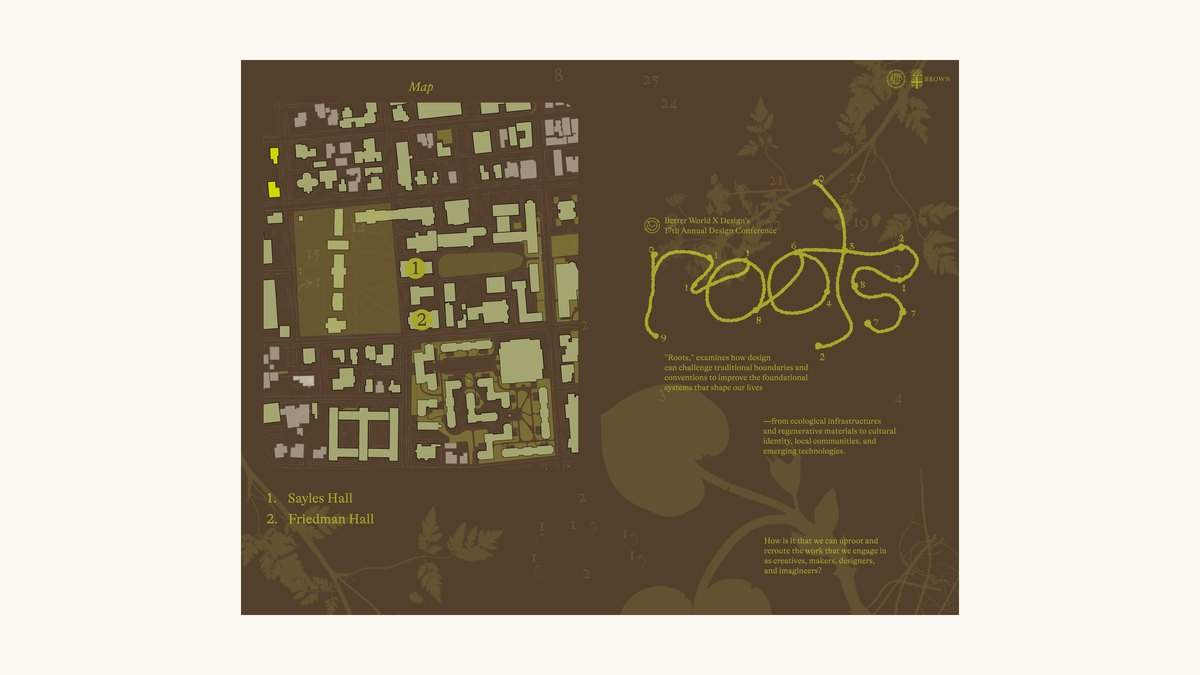
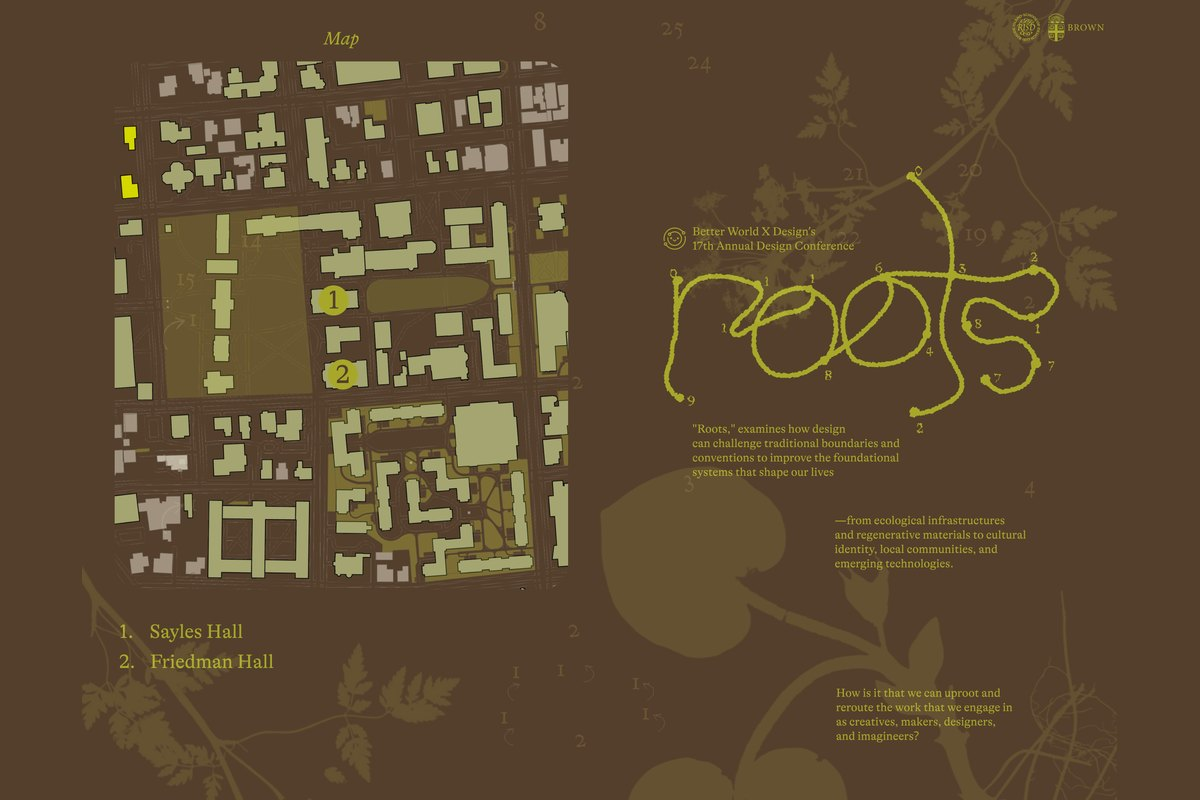
Roots: show frames without backgrounds; MÆZE tag to identity design

diff --git a/bwxd-roots.html b/bwxd-roots.html
@@ -10,7 +10,7 @@
 <link rel="icon" type="image/png" href="img/favicon.png?v=4">
 <link rel="apple-touch-icon" href="img/apple-touch-icon.png?v=4">
 <script type="speculationrules">{"prerender":[{"where":{"href_matches":"/*"},"eagerness":"moderate"}]}</script>
-<link rel="stylesheet" href="css/site.css?v=31">
+<link rel="stylesheet" href="css/site.css?v=32">
 </head>
 <body>
 <nav class="nav">
@@ -24,20 +24,33 @@
   <div class="wrap project-in">
     <a class="label inline back" href="./">← Back</a>
     <div class="duo">
-      <img class="shot" src="img/bwxd-cover.jpg" alt="Roots conference program, front" fetchpriority="high" width="2400" height="1350">
-      <img class="shot" src="img/bwxd-01.jpg" alt="Roots conference program, back" fetchpriority="high" width="2400" height="1350">
+      <img class="shot" src="img/bwxd-front.jpg" alt="Roots conference program, front" fetchpriority="high" width="2376" height="1836">
+      <img class="shot" src="img/bwxd-back.jpg" alt="Roots conference program, back" fetchpriority="high" width="2376" height="1836">
     </div>
     <div class="details details-pair">
       <div class="title-col"><h1 class="heading">Roots</h1><div class="tags"><span class="tag">brand identity</span><span class="tag">print</span></div></div>
       <div class="desc-col"><p class="body desc-fill">Identity for Roots, Better World by Design’s 17th annual design conference, which asks how design can uproot and reroute the systems that shape our lives. Brand guidelines, theme launch poster, conference program with a campus map and schedule, and recruitment posts for the 2027–28 committee. Type in Goudy Bookletter 1911 and GT&nbsp;Alpina.</p></div>
     </div>
-    <div class="gallery two-up">
-    <img class="shot" src="img/bwxd-02.jpg" alt="Roots brand guidelines" loading="lazy" width="2400" height="1350">
-    <img class="shot" src="img/bwxd-03.jpg" alt="Roots theme launch poster" loading="lazy" width="2400" height="1350">
-    <img class="shot" src="img/bwxd-04.jpg" alt="Recruitment posts: operations and graphics" loading="lazy" width="2400" height="1350">
-    <img class="shot" src="img/bwxd-05.jpg" alt="Recruitment posts: content and community engagement" loading="lazy" width="2400" height="1350">
-    <img class="shot" src="img/bwxd-06.jpg" alt="Recruitment posts: public relations and web" loading="lazy" width="2400" height="1350">
-    <img class="shot" src="img/bwxd-07.jpg" alt="Recruitment posts and posters" loading="lazy" width="2400" height="1350">
+    <div class="gallery">
+    <div class="fit-row">
+      <img class="shot bordered" src="img/bwxd-brand.jpg" alt="Roots brand guidelines" loading="lazy" width="1652" height="2667" style="--r:0.6194">
+      <img class="shot" src="img/bwxd-theme.jpg" alt="Roots theme launch poster" loading="lazy" width="1584" height="2448" style="--r:0.6471">
+    </div>
+    <div class="fit-row">
+      <img class="shot bordered" src="img/bwxd-post-1.jpg" alt="Recruitment post: operations" loading="lazy" width="1400" height="1750" style="--r:0.8000">
+      <img class="shot bordered" src="img/bwxd-post-2.jpg" alt="Recruitment post: graphics" loading="lazy" width="1400" height="1750" style="--r:0.8000">
+      <img class="shot bordered" src="img/bwxd-post-3.jpg" alt="Recruitment post: content" loading="lazy" width="1400" height="1750" style="--r:0.8000">
+    </div>
+    <div class="fit-row">
+      <img class="shot bordered" src="img/bwxd-post-4.jpg" alt="Recruitment post: community engagement" loading="lazy" width="1400" height="1750" style="--r:0.8000">
+      <img class="shot bordered" src="img/bwxd-post-5.jpg" alt="Recruitment post: public relations" loading="lazy" width="1400" height="1750" style="--r:0.8000">
+      <img class="shot bordered" src="img/bwxd-post-6.jpg" alt="Recruitment post: web" loading="lazy" width="1400" height="1750" style="--r:0.8000">
+    </div>
+    <div class="fit-row">
+      <img class="shot bordered" src="img/bwxd-post-7.jpg" alt="Recruitment post: we are hiring" loading="lazy" width="1400" height="1750" style="--r:0.8000">
+      <img class="shot bordered" src="img/bwxd-tabloid-1.jpg" alt="Recruitment poster" loading="lazy" width="1300" height="2009" style="--r:0.6471">
+      <img class="shot bordered" src="img/bwxd-tabloid-5.jpg" alt="Recruitment poster" loading="lazy" width="1300" height="2009" style="--r:0.6471">
+    </div>
     </div>
     <div class="pager"><a class="body plain" href="maze.html">← MÆZE</a><a class="body plain" href="affix.html">AFFIX →</a></div>
   </div>

diff --git a/index.html b/index.html
@@ -10,7 +10,7 @@
 <link rel="icon" type="image/png" href="img/favicon.png?v=4">
 <link rel="apple-touch-icon" href="img/apple-touch-icon.png?v=4">
 <script type="speculationrules">{"prerender":[{"where":{"href_matches":"/*"},"eagerness":"moderate"}]}</script>
-<link rel="stylesheet" href="css/site.css?v=31">
+<link rel="stylesheet" href="css/site.css?v=32">
 </head>
 <body>
 <nav class="nav">
@@ -30,10 +30,10 @@
   <div class="wrap grid">
     <a class="card" href="maze.html">
       <div class="thumb"><img src="img/maze-card.jpg" alt="MÆZE" fetchpriority="high" width="1200" height="675"></div>
-      <div class="caption"><div class="cap-text"><p class="body cap-title">MÆZE</p><p class="cap-sub">A wayfinding prototype for the Providence Athenæum</p></div><div class="tags"><span class="tag">UX/UI</span><span class="tag">wayfinding</span></div></div>
+      <div class="caption"><div class="cap-text"><p class="body cap-title">MÆZE</p><p class="cap-sub">A wayfinding prototype for the Providence Athenæum</p></div><div class="tags"><span class="tag">UX/UI</span><span class="tag">identity design</span></div></div>
     </a>
     <a class="card" href="bwxd-roots.html">
-      <div class="thumb"><img src="img/bwxd-card.jpg" alt="Roots" fetchpriority="high" width="1200" height="675"></div>
+      <div class="thumb"><img src="img/bwxd-card.jpg?v=2" alt="Roots" fetchpriority="high" width="1200" height="800"></div>
       <div class="caption"><div class="cap-text"><p class="body cap-title">Roots</p><p class="cap-sub">Better World by Design’s 17th annual design conference</p></div><div class="tags"><span class="tag">brand identity</span><span class="tag">print</span></div></div>
     </a>
     <a class="card" href="affix.html">

diff --git a/maze.html b/maze.html
@@ -10,7 +10,7 @@
 <link rel="icon" type="image/png" href="img/favicon.png?v=4">
 <link rel="apple-touch-icon" href="img/apple-touch-icon.png?v=4">
 <script type="speculationrules">{"prerender":[{"where":{"href_matches":"/*"},"eagerness":"moderate"}]}</script>
-<link rel="stylesheet" href="css/site.css?v=31">
+<link rel="stylesheet" href="css/site.css?v=32">
 </head>
 <body>
 <nav class="nav">
@@ -28,7 +28,7 @@
       <img class="shot" src="img/maze-01.jpg?v=20261114f" alt="MÆZE" fetchpriority="high" width="2400" height="1350">
     </div>
     <div class="details details-pair">
-      <div class="title-col"><h1 class="heading">MÆZE</h1><div class="tags"><span class="tag">UX/UI</span><span class="tag">wayfinding</span></div></div>
+      <div class="title-col"><h1 class="heading">MÆZE</h1><div class="tags"><span class="tag">UX/UI</span><span class="tag">identity design</span></div></div>
       <div class="desc-col"><p class="body desc-fill">A wayfinding prototype for the Providence Athenæum, made with the team ÆEEEE. Six questions lead the visitor from the card catalog, through the stacks and into one book, narrowing some 176,800 volumes to a single word. App&nbsp;prototype, iconography and poster. Type in Goudy Bookletter 1911 and <span class="nowrap">Forevs.</span></p><a class="label plain" href="https://jkwon20241.github.io/maze/" target="_blank" rel="noopener">Prototype ↗</a></div>
     </div>
     <div class="gallery two-up">

diff --git a/css/site.css b/css/site.css
@@ -334,3 +334,11 @@ p, h1, h2, .tag, .label { hyphens: manual; overflow-wrap: break-word; }
 
 /* full-width gallery image */
 .gallery.two-up > .shot.wide { grid-column: 1 / -1; }
+
+/* images of different shapes in one row, sized so they share the same height */
+.fit-row { display: flex; align-items: flex-start; gap: 32px; width: 100%; }
+.fit-row > .shot { flex: var(--r) 1 0; width: 0; min-width: 0; }
+@media (max-width: 809px) {
+  .fit-row { flex-direction: column; gap: 20px; }
+  .fit-row > .shot { flex: none; width: 100%; }
+}

diff --git a/affix.html b/affix.html
@@ -10,7 +10,7 @@
 <link rel="icon" type="image/png" href="img/favicon.png?v=4">
 <link rel="apple-touch-icon" href="img/apple-touch-icon.png?v=4">
 <script type="speculationrules">{"prerender":[{"where":{"href_matches":"/*"},"eagerness":"moderate"}]}</script>
-<link rel="stylesheet" href="css/site.css?v=31">
+<link rel="stylesheet" href="css/site.css?v=32">
 </head>
 <body>
 <nav class="nav">

diff --git a/buttons.html b/buttons.html
@@ -10,7 +10,7 @@
 <link rel="icon" type="image/png" href="img/favicon.png?v=4">
 <link rel="apple-touch-icon" href="img/apple-touch-icon.png?v=4">
 <script type="speculationrules">{"prerender":[{"where":{"href_matches":"/*"},"eagerness":"moderate"}]}</script>
-<link rel="stylesheet" href="css/site.css?v=31">
+<link rel="stylesheet" href="css/site.css?v=32">
 </head>
 <body>
 <nav class="nav">

diff --git a/contact.html b/contact.html
@@ -10,7 +10,7 @@
 <link rel="icon" type="image/png" href="img/favicon.png?v=4">
 <link rel="apple-touch-icon" href="img/apple-touch-icon.png?v=4">
 <script type="speculationrules">{"prerender":[{"where":{"href_matches":"/*"},"eagerness":"moderate"}]}</script>
-<link rel="stylesheet" href="css/site.css?v=31">
+<link rel="stylesheet" href="css/site.css?v=32">
 </head>
 <body>
 <nav class="nav">

diff --git a/focus.html b/focus.html
@@ -10,7 +10,7 @@
 <link rel="icon" type="image/png" href="img/favicon.png?v=4">
 <link rel="apple-touch-icon" href="img/apple-touch-icon.png?v=4">
 <script type="speculationrules">{"prerender":[{"where":{"href_matches":"/*"},"eagerness":"moderate"}]}</script>
-<link rel="stylesheet" href="css/site.css?v=31">
+<link rel="stylesheet" href="css/site.css?v=32">
 </head>
 <body>
 <nav class="nav">

diff --git a/freshly.html b/freshly.html
@@ -10,7 +10,7 @@
 <link rel="icon" type="image/png" href="img/favicon.png?v=4">
 <link rel="apple-touch-icon" href="img/apple-touch-icon.png?v=4">
 <script type="speculationrules">{"prerender":[{"where":{"href_matches":"/*"},"eagerness":"moderate"}]}</script>
-<link rel="stylesheet" href="css/site.css?v=31">
+<link rel="stylesheet" href="css/site.css?v=32">
 </head>
 <body>
 <nav class="nav">

diff --git a/information.html b/information.html
@@ -10,7 +10,7 @@
 <link rel="icon" type="image/png" href="img/favicon.png?v=4">
 <link rel="apple-touch-icon" href="img/apple-touch-icon.png?v=4">
 <script type="speculationrules">{"prerender":[{"where":{"href_matches":"/*"},"eagerness":"moderate"}]}</script>
-<link rel="stylesheet" href="css/site.css?v=31">
+<link rel="stylesheet" href="css/site.css?v=32">
 </head>
 <body>
 <nav class="nav">

diff --git a/seashell.html b/seashell.html
@@ -10,7 +10,7 @@
 <link rel="icon" type="image/png" href="img/favicon.png?v=4">
 <link rel="apple-touch-icon" href="img/apple-touch-icon.png?v=4">
 <script type="speculationrules">{"prerender":[{"where":{"href_matches":"/*"},"eagerness":"moderate"}]}</script>
-<link rel="stylesheet" href="css/site.css?v=31">
+<link rel="stylesheet" href="css/site.css?v=32">
 </head>
 <body>
 <nav class="nav">

diff --git a/the-indy-v52.html b/the-indy-v52.html
@@ -10,7 +10,7 @@
 <link rel="icon" type="image/png" href="img/favicon.png?v=4">
 <link rel="apple-touch-icon" href="img/apple-touch-icon.png?v=4">
 <script type="speculationrules">{"prerender":[{"where":{"href_matches":"/*"},"eagerness":"moderate"}]}</script>
-<link rel="stylesheet" href="css/site.css?v=31">
+<link rel="stylesheet" href="css/site.css?v=32">
 </head>
 <body>
 <nav class="nav">
